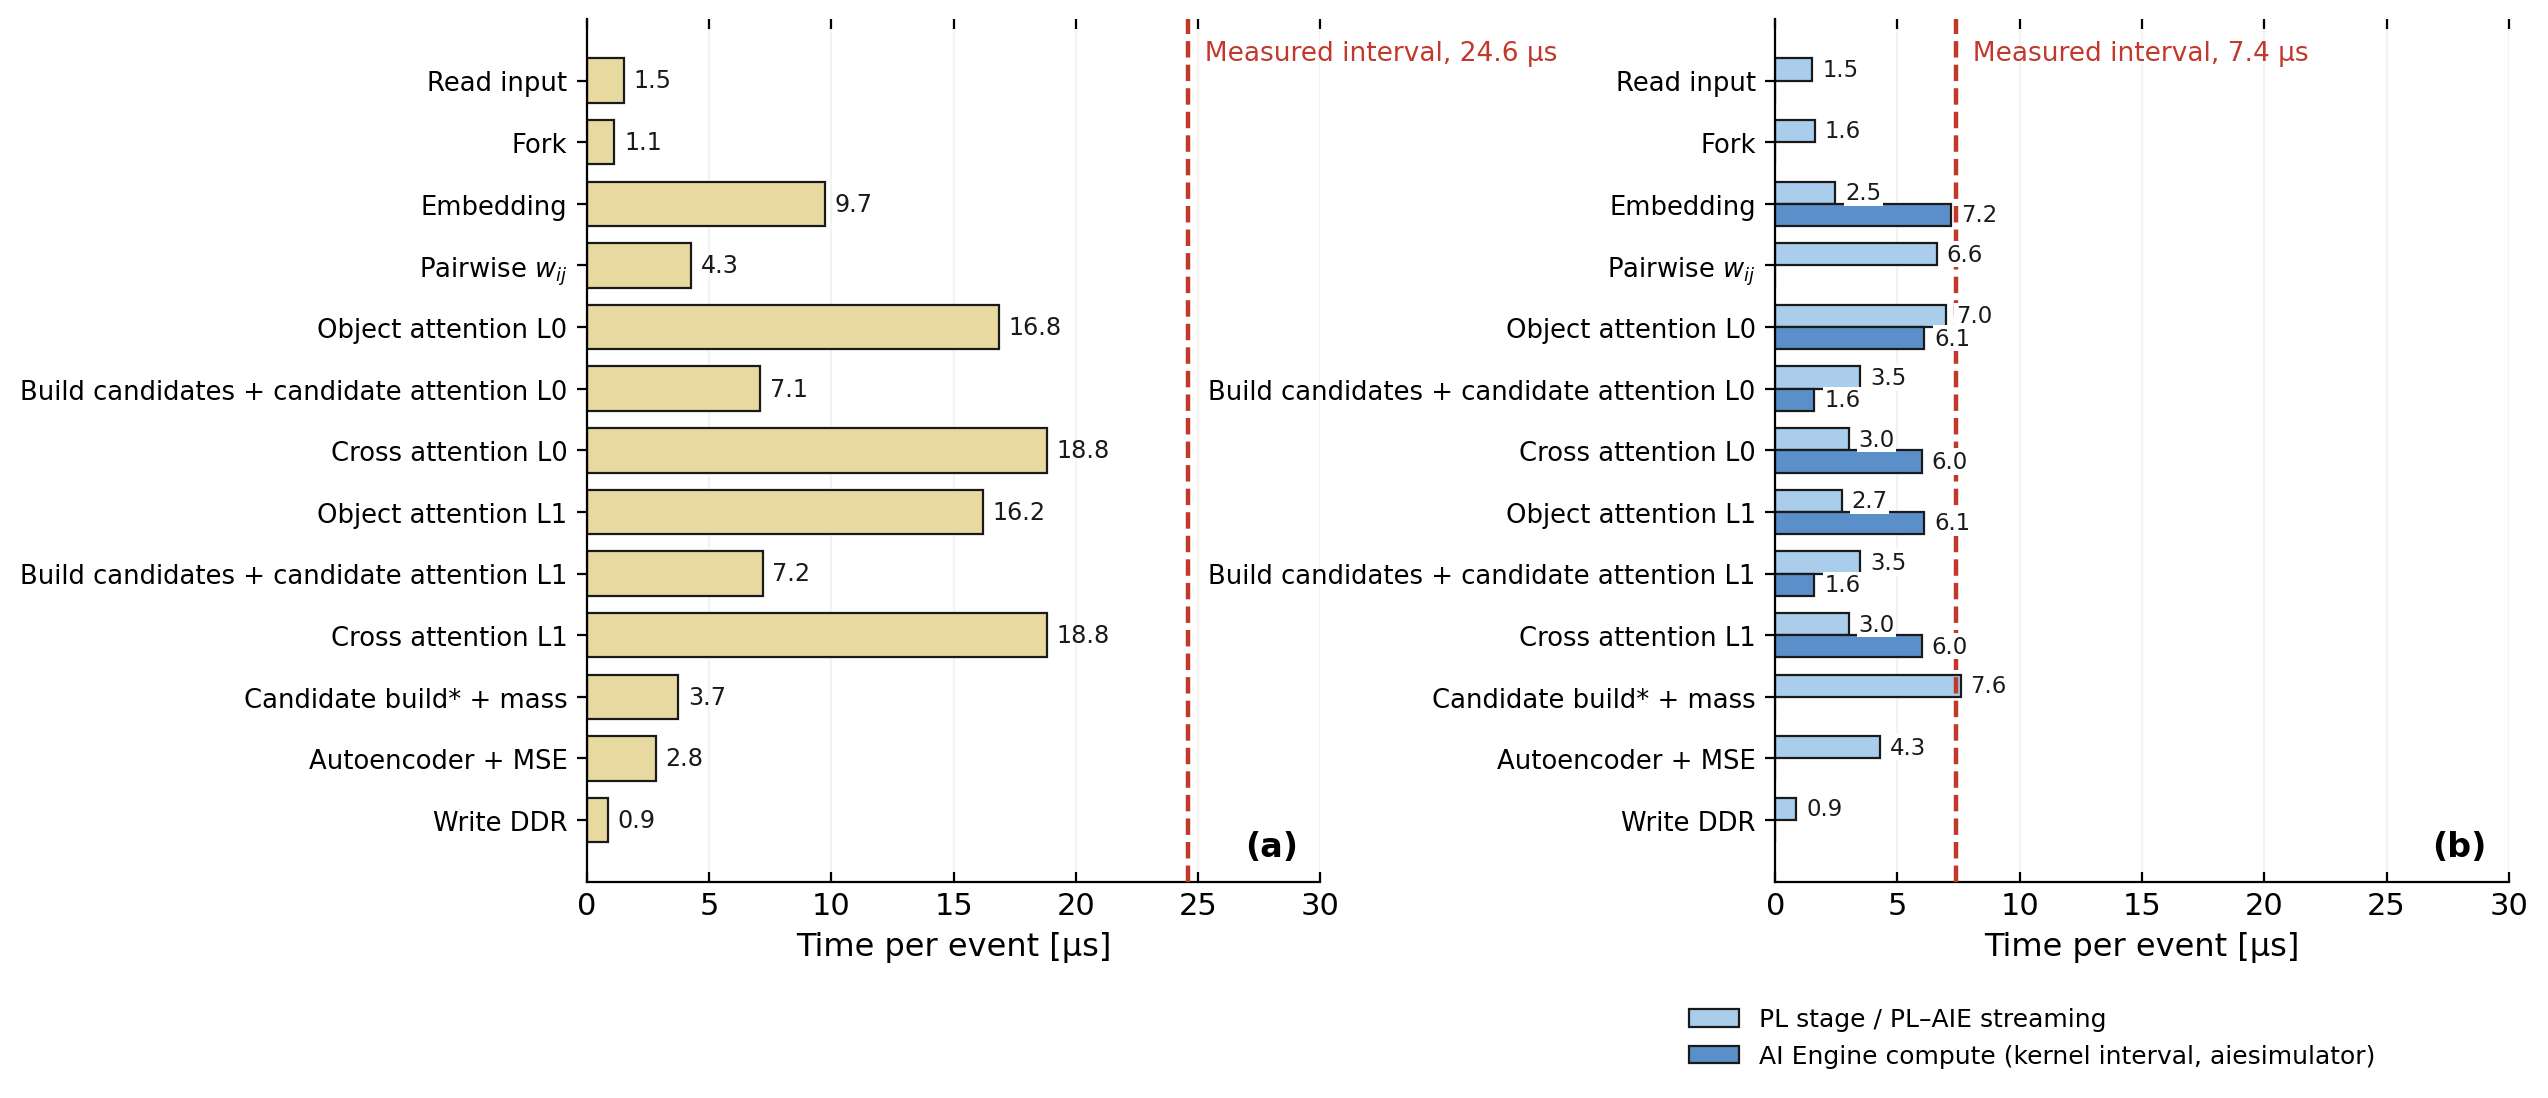
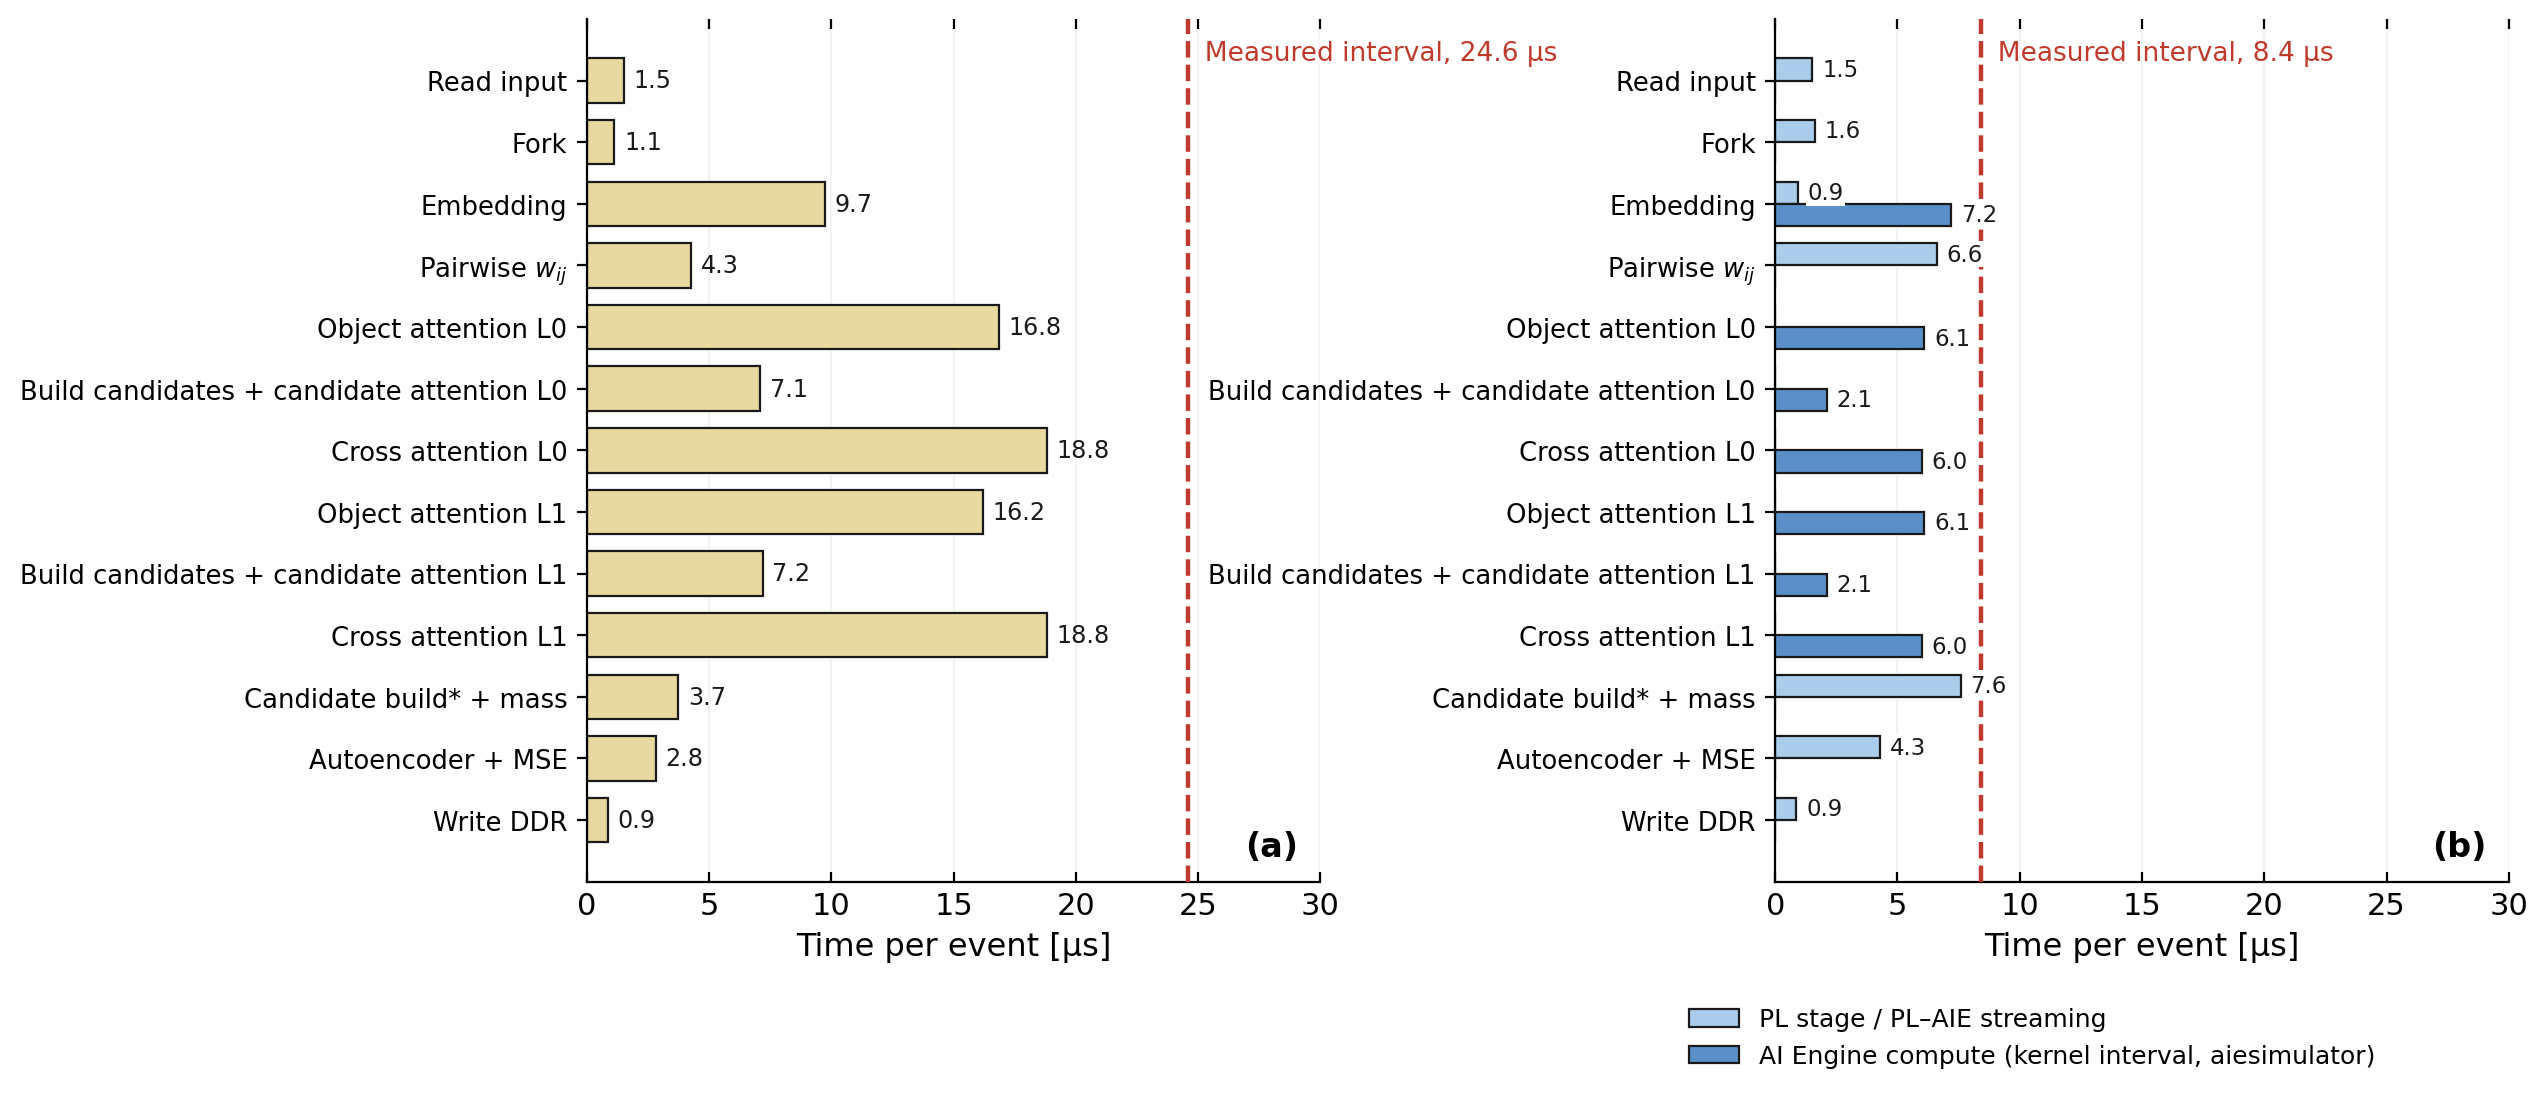
fig: stage breakdown panel (b) restated for the on-array stack (chain image)

diff --git a/scripts/make_latency_and_stage_charts.py b/scripts/make_latency_and_stage_charts.py
@@ -87,25 +87,31 @@ EMBED_AIE_SIM = 7.2   # embed_mlp, aiesimulator, 8,998 cycles/event
 cyc = lambda c, clk: c / clk * 1e6
 cycpl = lambda c: c / PL_CLK * 1e6
 # rows: (label, PL-only us, hybrid PL-side us, hybrid AIE us)
-# Hybrid PL column: the fabric work of a row is several dataflow processes
-# (e.g. object L0 = send 699, recv 243, remask 213 cycles) that run as separate
-# pipeline stages, so the bar shows the LONGEST of them -- the one that can set
-# the rate -- not their sum (a single event pays the sum: 11.5 us for object L0).
-# rows: (label, PL-only us, hybrid PL-side us, hybrid AIE us)
+# Hybrid = the "chain" image (whole ABC stack on the array, 2026-09-14). PL
+# column: per-event iteration latency of each fabric stage loop in
+# aie_stream_top_chain.cpp (read 152, fork 161, embed send 92, mask send 29,
+# pairwise 661, wij send 482, x recv 243, c recv 63, lorentz 759, AE 429,
+# write 86 cycles at 100 MHz); where a row holds several dataflow processes the
+# bar is the longest one. The attention blocks have no fabric part any more:
+# the mask row, remask and candidate build run on tiles (~0.5 us, folded into
+# the candidate rows). AI Engine column: slowest kernel of each block from the
+# aiesimulator profiles. The measured 8.4 us interval is the array's own rate
+# (the simulator of the whole stack gave 8.7): the block kernels plus the
+# assemble/post-obj hops and stream fan-outs between them.
 ROWS = [
- ("Read input",                cycpl(152),   cyc(152, HYB_CLK),               0),
- ("Fork",                      cycpl(112),   cyc(161, HYB_CLK),               0),
- ("Embedding",                 cycpl(973),   cyc(max(92, 246), HYB_CLK),      EMBED_AIE_SIM),
- ("Pairwise $w_{ij}$",         cycpl(428),   cyc(661, HYB_CLK),               0),   # t2i: pairwise at II=1 (t2h: 2640)
- ("Object attention L0",       cycpl(1684),  cyc(max(699, 243, 213), HYB_CLK), AIE["Object attention"]),
- ("Build candidates + candidate attention L0", cycpl(708), cyc(max(348, 68, 63), HYB_CLK), AIE["Candidate attention"]),
- ("Cross attention L0",        cycpl(1880),  cyc(max(300, 243), HYB_CLK),     AIE["Cross attention"]),
- ("Object attention L1",       cycpl(1620),  cyc(max(273, 243, 213), HYB_CLK), AIE["Object attention"]),
- ("Build candidates + candidate attention L1", cycpl(719), cyc(max(348, 68, 63), HYB_CLK), AIE["Candidate attention"]),
- ("Cross attention L1",        cycpl(1880),  cyc(max(300, 243), HYB_CLK),     AIE["Cross attention"]),
- ("Candidate build* + mass",   cycpl(373),   cyc(759, HYB_CLK),               0),
- ("Autoencoder + MSE",         cycpl(281),   cyc(429, HYB_CLK),               0),
- ("Write DDR",                 cycpl(86),    cyc(86, HYB_CLK),                0),
+ ("Read input",                cycpl(152),   cyc(152, HYB_CLK),          0),
+ ("Fork",                      cycpl(112),   cyc(161, HYB_CLK),          0),
+ ("Embedding",                 cycpl(973),   cyc(max(92, 29), HYB_CLK),  EMBED_AIE_SIM),
+ ("Pairwise $w_{ij}$",         cycpl(428),   cyc(max(661, 482), HYB_CLK), 0),   # t2i: pairwise at II=1 (t2h: 2640)
+ ("Object attention L0",       cycpl(1684),  0,                          AIE["Object attention"]),
+ ("Build candidates + candidate attention L0", cycpl(708), 0,            AIE["Candidate attention"] + 0.5),
+ ("Cross attention L0",        cycpl(1880),  0,                          AIE["Cross attention"]),
+ ("Object attention L1",       cycpl(1620),  0,                          AIE["Object attention"]),
+ ("Build candidates + candidate attention L1", cycpl(719), 0,            AIE["Candidate attention"] + 0.5),
+ ("Cross attention L1",        cycpl(1880),  0,                          AIE["Cross attention"]),
+ ("Candidate build* + mass",   cycpl(373),   cyc(max(759, 243, 63), HYB_CLK), 0),
+ ("Autoencoder + MSE",         cycpl(281),   cyc(429, HYB_CLK),          0),
+ ("Write DDR",                 cycpl(86),    cyc(86, HYB_CLK),           0),
 ]
 labs = [r[0] for r in ROWS]
 y = np.arange(len(labs))[::-1]
@@ -155,8 +161,9 @@ axc.barh(y - hh/2, ha, color=AIE_DARK, edgecolor=INK, linewidth=0.8, height=hh,
          label="AI Engine compute (kernel interval, aiesimulator)")
 for yy, p, a in zip(y, hp, ha):
     # white background so the measured-interval line does not cross the digits
-    axc.text(p + 0.4, yy + hh/2, f"{p:.1f}", va="center", fontsize=8.2, color=INK, zorder=6,
-             bbox=dict(facecolor="white", edgecolor="none", pad=0.6))
+    if p:
+        axc.text(p + 0.4, yy + hh/2, f"{p:.1f}", va="center", fontsize=8.2, color=INK, zorder=6,
+                 bbox=dict(facecolor="white", edgecolor="none", pad=0.6))
     if a:
         axc.text(a + 0.4, yy - hh/2, f"{a:.1f}", va="center", fontsize=8.2, color=INK, zorder=6,
                  bbox=dict(facecolor="white", edgecolor="none", pad=0.6))
